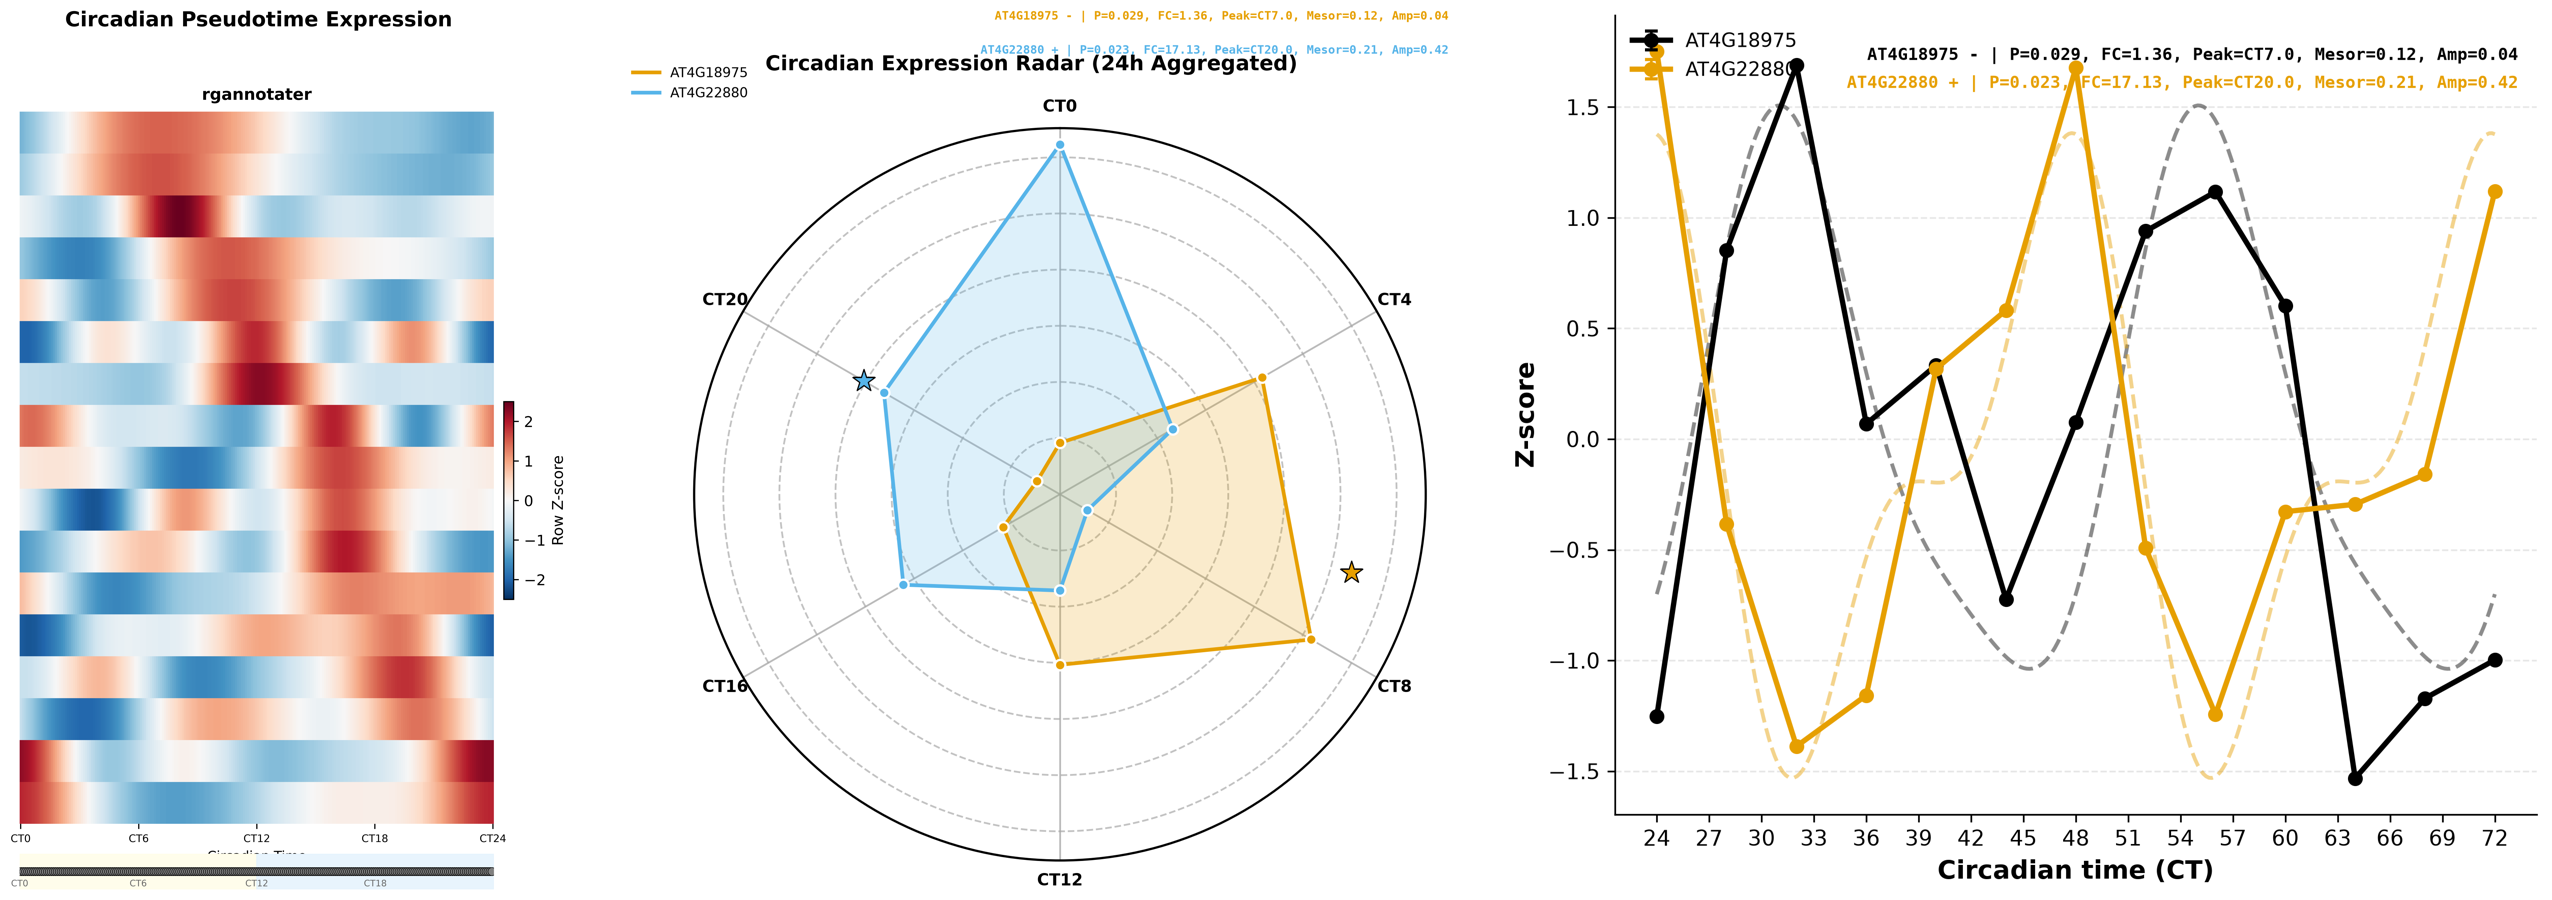
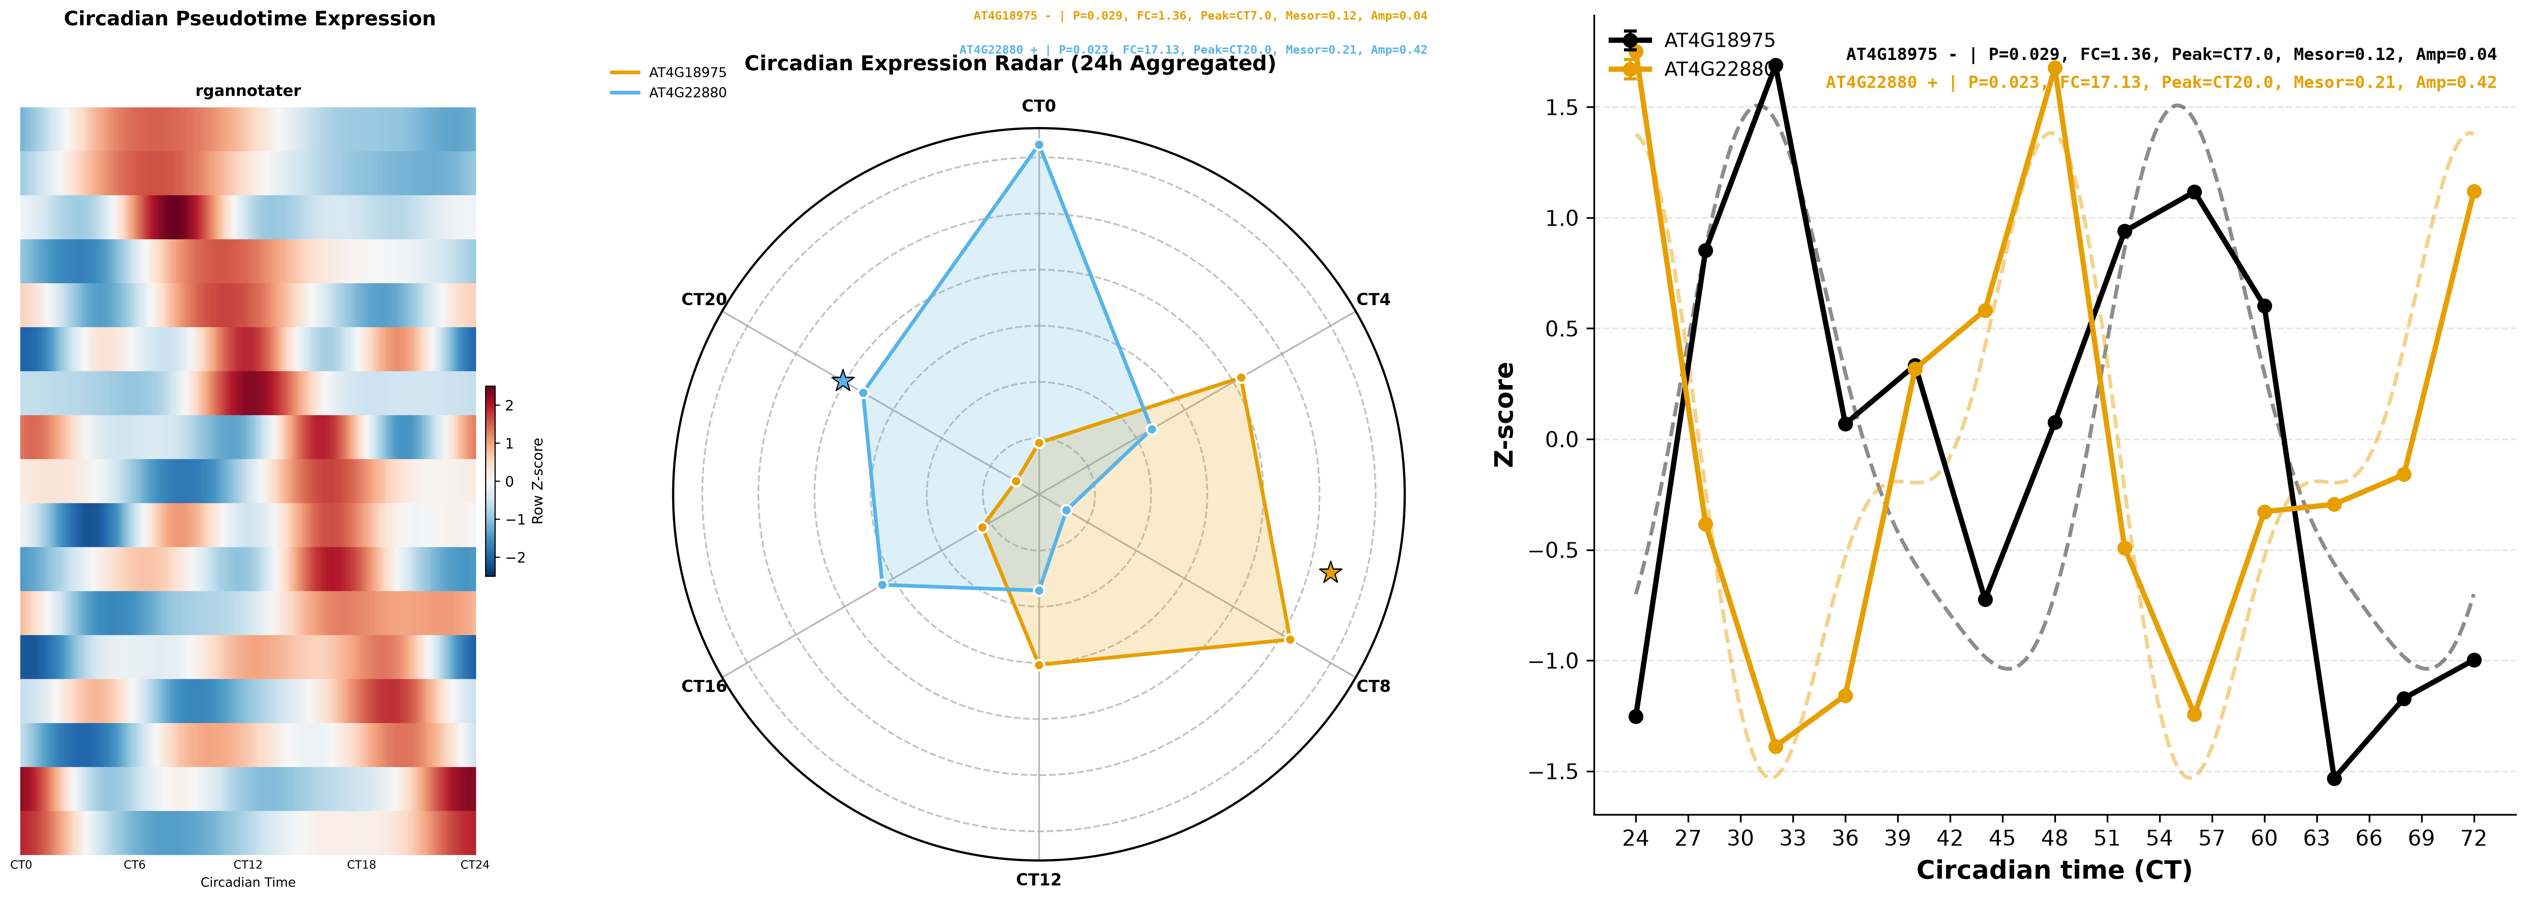
Pseudotime plot: remove day/night marker strip under the heatmap

diff --git a/rgannotator/pseudotime.py b/rgannotator/pseudotime.py
@@ -160,9 +160,9 @@ def plot_panel(fig, gs_cell, heat_z, gene_names, times_smooth,
         width_ratios.append(0.05)
 
     inner = gs_cell.subgridspec(
-        2, len(width_ratios),
-        height_ratios=[20, 1.0], width_ratios=width_ratios,
-        hspace=0.08, wspace=0.02,
+        1, len(width_ratios),
+        width_ratios=width_ratios,
+        wspace=0.02,
     )
 
     col_idx = 0
@@ -172,19 +172,12 @@ def plot_panel(fig, gs_cell, heat_z, gene_names, times_smooth,
         col_idx += 1
 
     ax_hm = fig.add_subplot(inner[0, col_idx])
-    hm_col_idx = col_idx
     col_idx += 1
 
     ax_ann = None
     if has_anno:
         ax_ann = fig.add_subplot(inner[0, col_idx])
         col_idx += 1
-
-    ax_bar = fig.add_subplot(inner[1, hm_col_idx])
-
-    for c in range(len(width_ratios)):
-        if c != hm_col_idx:
-            fig.add_subplot(inner[1, c]).axis("off")
 
     cmap = get_cmap(cmap_name)
     im = ax_hm.imshow(
@@ -201,31 +194,10 @@ def plot_panel(fig, gs_cell, heat_z, gene_names, times_smooth,
     max_ct = 48 if n_cycle == 2 else 24
     tick_times = range(0, max_ct + 1, 6)
     ax_hm.set_xticks([tt / max_ct * (n_cols - 1) for tt in tick_times])
-    ax_hm.set_xticklabels(["CT" + str(tt) for tt in tick_times], fontsize=7)
+    ax_hm.set_xticklabels(["CT" + str(tt) for tt in tick_times], fontsize=8)
     ax_hm.set_xlabel("Circadian Time", fontsize=9)
+    ax_hm.tick_params(length=0)
     for spine in ax_hm.spines.values():
-        spine.set_visible(False)
-
-    # day/night strip under the heatmap
-    ax_bar.set_xlim(0, max_ct)
-    ax_bar.set_ylim(0, 1)
-    ax_bar.set_yticks([])
-    for cycle in range(n_cycle):
-        off = cycle * 24
-        ax_bar.add_patch(Rectangle((off, 0), 12, 1, color="#FFFDE7", alpha=0.8))
-        ax_bar.add_patch(Rectangle((off + 12, 0), 12, 1, color="#E3F2FD", alpha=0.8))
-
-    unique_ct = sorted(set(times_smooth % 24))
-    for cycle in range(n_cycle):
-        off = cycle * 24
-        for ct in unique_ct:
-            ax_bar.scatter(ct + off, 0.5, s=30, c="gray", edgecolors="black",
-                           linewidth=0.4, zorder=3)
-        for ct in [0, 6, 12, 18]:
-            ax_bar.text(ct + off, 0.15, "CT" + str(ct), ha="center", va="center",
-                        fontsize=6, color="dimgray")
-    ax_bar.set_xticks([])
-    for spine in ax_bar.spines.values():
         spine.set_visible(False)
 
     # left-side markers for genes of interest
